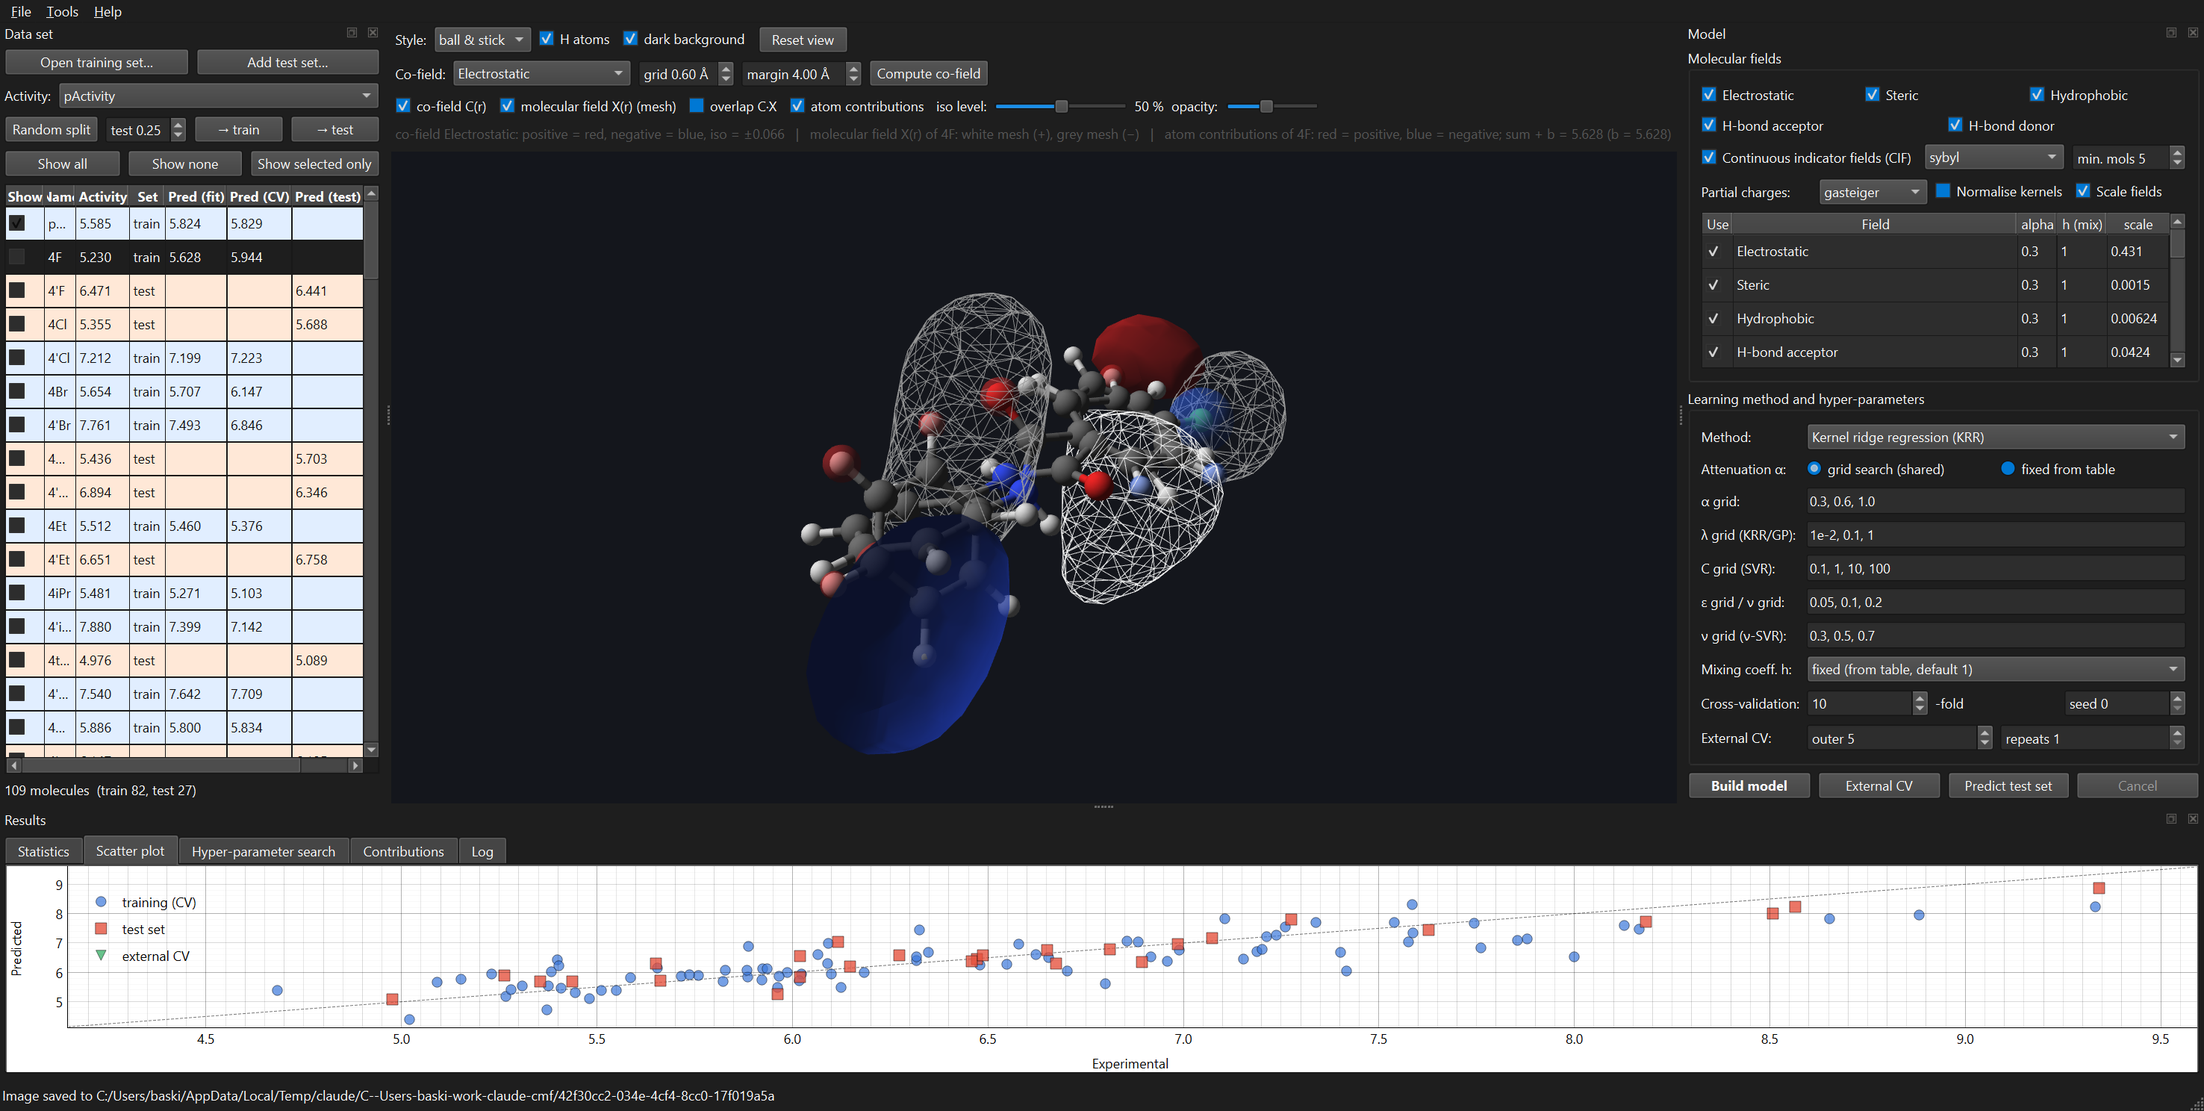
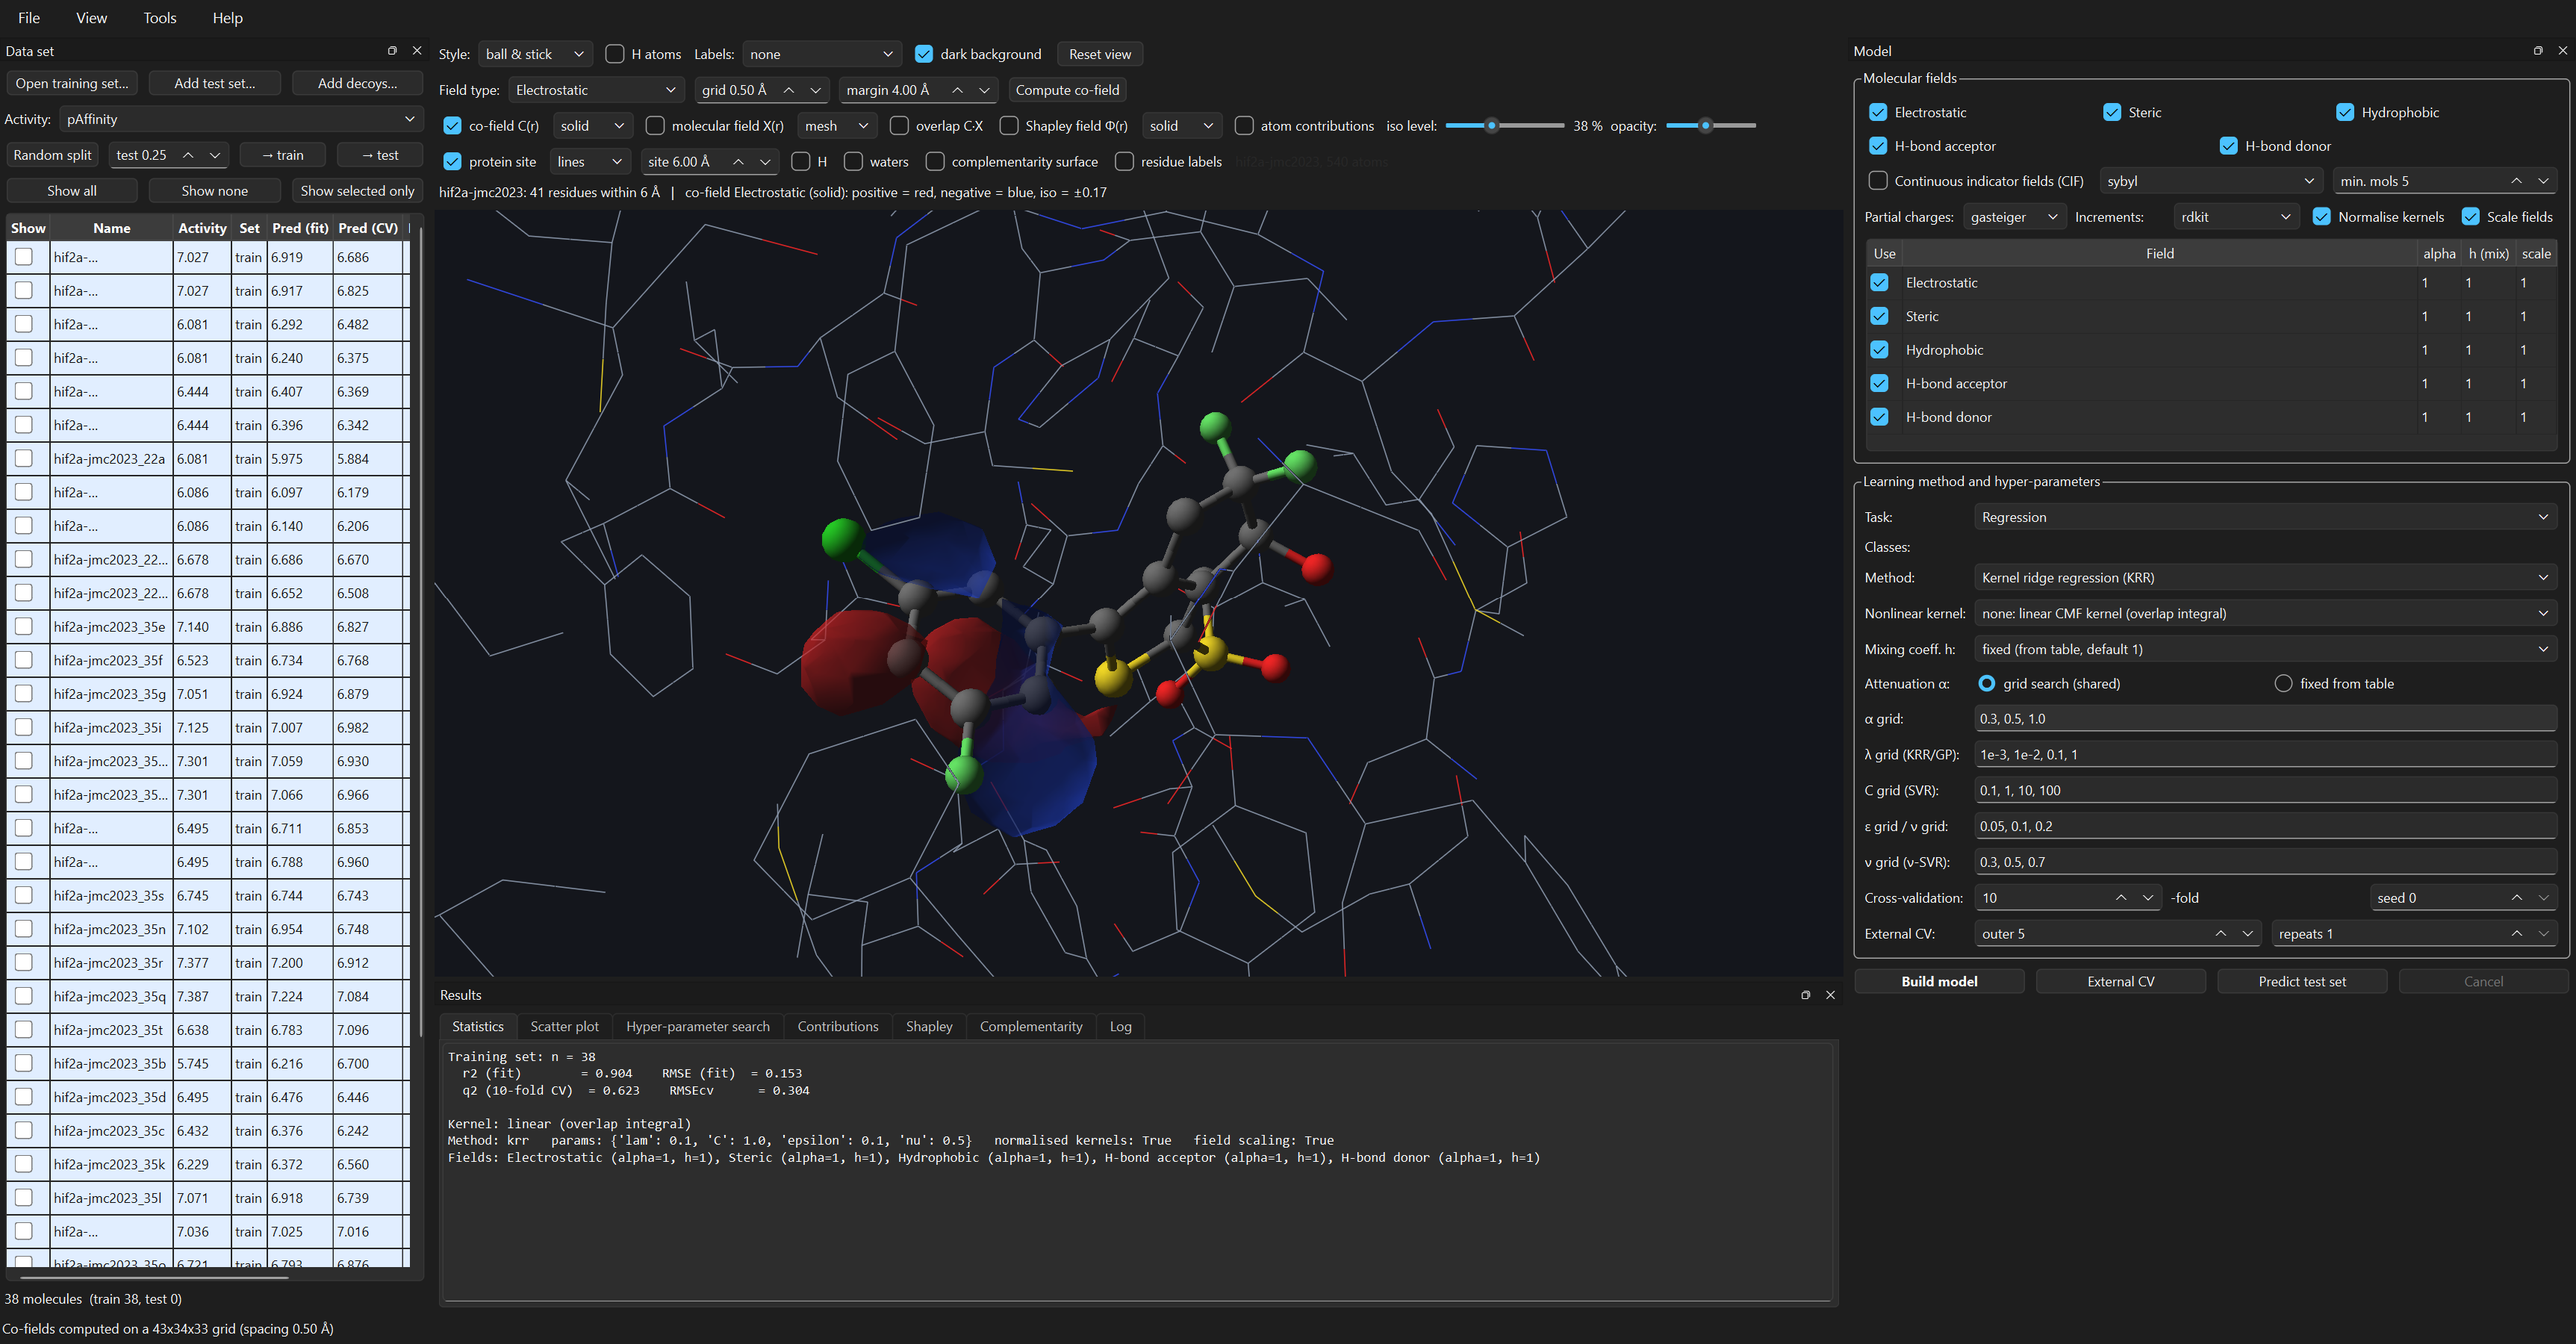
Update the screenshot to the current program
The old picture predated the protein display, the Shapley and Complementarity
tabs and the nonlinear kernel row. The new one shows the HIF-2alpha series of
the Merck benchmark with its co-field inside the binding site, and the README
now says what is on screen.

Also shortens the loaded-structure label, which was too long for its row.

diff --git a/cmfqsar/gui/panels.py b/cmfqsar/gui/panels.py
@@ -1338,18 +1338,18 @@ class ViewerControls(QWidget):
         self.sld_level = QSlider(Qt.Horizontal)
         self.sld_level.setRange(1, 99)
         self.sld_level.setValue(50)
-        self.sld_level.setMinimumWidth(120)
+        self.sld_level.setMinimumWidth(110)
         self.sld_level.valueChanged.connect(self.changed)
         row3.addWidget(self.sld_level)
         self.lbl_level = QLabel("50 %")
         row3.addWidget(self.lbl_level)
         self.sld_level.valueChanged.connect(lambda v: self.lbl_level.setText(f"{v} %"))
+        row3.addWidget(QLabel("opacity:"))
         self.sld_alpha = QSlider(Qt.Horizontal)
         self.sld_alpha.setRange(5, 100)
         self.sld_alpha.setValue(45)
         self.sld_alpha.setMaximumWidth(90)
         self.sld_alpha.valueChanged.connect(self.changed)
-        row3.addWidget(QLabel("opacity:"))
         row3.addWidget(self.sld_alpha)
         row3.addStretch(1)
         lay.addLayout(row3)

diff --git a/cmfqsar/gui/main_window.py b/cmfqsar/gui/main_window.py
@@ -1003,7 +1003,7 @@ class MainWindow(QMainWindow):
         self._site_cache = None
         self.complementarity = None
         self._comp_surface_cache = {}
-        self.controls.set_protein_label(f"{prot.name}: {prot.n_atoms} atoms, {prot.n_residues} residues")
+        self.controls.set_protein_label(f"{prot.name}, {prot.n_atoms} atoms")
         self.controls.chk_protein.setChecked(True)
         msg = (f"Loaded {prot.name} from {source}: {prot.n_atoms} atoms, {prot.n_residues} residues")
         if self.molfields:

diff --git a/README.md b/README.md
@@ -12,6 +12,10 @@ A Python/Qt desktop application (plus a library and a command-line tool) that im
 
 ![screenshot](docs/screenshot.png)
 
+*The HIF-2α series of the Merck free-energy benchmark, 38 ligands: a kernel ridge model with q² = 0.62,
+its electrostatic co-field drawn as ± isosurfaces, and the binding site of the reference crystal
+structure, which the data set brings with it and which needs no superposition.*
+
 ## What it does
 
 | Stage | Implementation |
